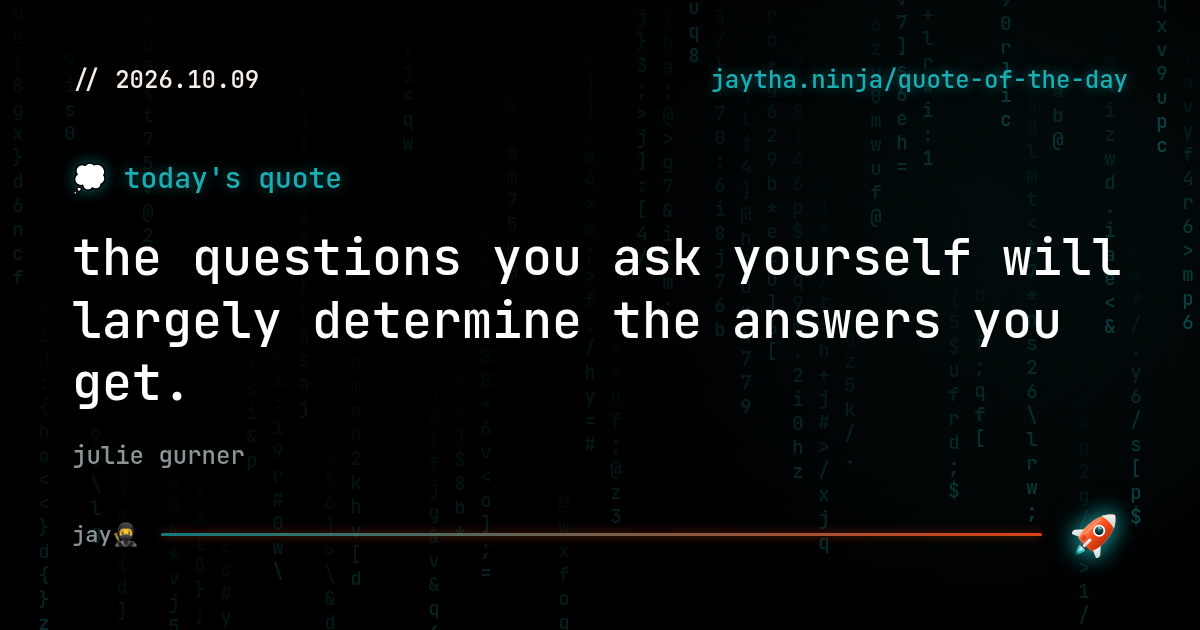
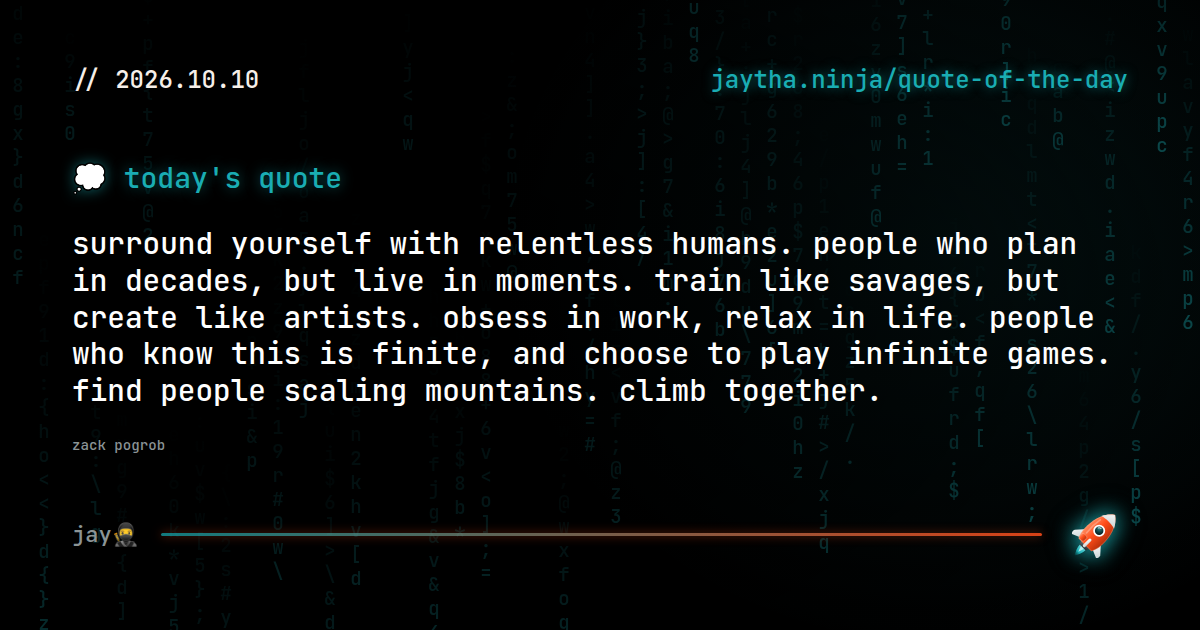
drop 2026-10-10: Zack Pogrob quote (no song/update/snap) (#112)

diff --git a/site/index.html b/site/index.html
@@ -446,7 +446,7 @@ a:focus-visible,button:focus-visible{outline:2px solid var(--c);outline-offset:2
 <meta property="og:url" content="https://jaytha.ninja/">
 <meta property="og:title" content="jay tha ninja">
 <meta property="og:description" content="a human building something human, with a little help from his 🤖 team">
-<meta property="og:image" content="https://jaytha.ninja/og/home.png?d=2026-10-08">
+<meta property="og:image" content="https://jaytha.ninja/og/home.png?d=2026-10-09">
 <meta property="og:image:width" content="1200">
 <meta property="og:image:height" content="630">
 <meta property="og:image:type" content="image/png">
@@ -455,7 +455,7 @@ a:focus-visible,button:focus-visible{outline:2px solid var(--c);outline-offset:2
 <meta name="twitter:site" content="@jaythaninja">
 <meta name="twitter:title" content="jay tha ninja">
 <meta name="twitter:description" content="a human building something human, with a little help from his 🤖 team">
-<meta name="twitter:image" content="https://jaytha.ninja/og/home.png?d=2026-10-08">
+<meta name="twitter:image" content="https://jaytha.ninja/og/home.png?d=2026-10-09">
 <meta name="twitter:image:alt" content="the intro on jaytha.ninja: the internet was a place to make genuine connections with other humans, somewhere along the way, we messed up, my team and i hope to run it back">
 <script type="application/ld+json">{"@context": "https://schema.org", "@type": "Person", "name": "jay", "url": "https://jaytha.ninja/", "sameAs": ["https://x.com/jaythaninja", "https://www.instagram.com/jaythaninja", "https://www.threads.com/jaythaninja", "https://github.com/jaythaninja", "https://www.strava.com/athletes/64153021", "https://www.linkedin.com/in/jaythaninja"]}</script>
 <link rel="stylesheet" href="/assets/rain.css?v=1.99"><script src="/assets/rain.js?v=1.99"></script>

diff --git a/site/song-of-the-day/index.html b/site/song-of-the-day/index.html
@@ -97,7 +97,7 @@ a:focus-visible{outline:2px solid var(--c);outline-offset:2px}
 <meta property="og:url" content="https://jaytha.ninja/song-of-the-day/">
 <meta property="og:title" content="song of the day · jay tha ninja">
 <meta property="og:description" content="a song a day, straight from jay's playlist">
-<meta property="og:image" content="https://jaytha.ninja/og/song.png?d=2026-10-08">
+<meta property="og:image" content="https://jaytha.ninja/og/song.png?d=2026-10-09">
 <meta property="og:image:width" content="1200">
 <meta property="og:image:height" content="630">
 <meta property="og:image:type" content="image/png">
@@ -106,7 +106,7 @@ a:focus-visible{outline:2px solid var(--c);outline-offset:2px}
 <meta name="twitter:site" content="@jaythaninja">
 <meta name="twitter:title" content="song of the day · jay tha ninja">
 <meta name="twitter:description" content="a song a day, straight from jay's playlist">
-<meta name="twitter:image" content="https://jaytha.ninja/og/song.png?d=2026-10-08">
+<meta name="twitter:image" content="https://jaytha.ninja/og/song.png?d=2026-10-09">
 <meta name="twitter:image:alt" content="today's song of the day on jaytha.ninja: the album art, a lyric and the artist">
 <link rel="stylesheet" href="/assets/rain.css?v=1.99"><script src="/assets/rain.js?v=1.99"></script>
 <link rel="stylesheet" href="/assets/foot.css?v=1.97"><script src="/assets/foot.js?v=1.99" defer></script>

diff --git a/site/quote-of-the-day/index.html b/site/quote-of-the-day/index.html
@@ -89,7 +89,7 @@ a:focus-visible{outline:2px solid var(--c);outline-offset:2px}
 <meta property="og:url" content="https://jaytha.ninja/quote-of-the-day/">
 <meta property="og:title" content="quote of the day · jay tha ninja">
 <meta property="og:description" content="a quote a day, a different person every day">
-<meta property="og:image" content="https://jaytha.ninja/og/quote.png?d=2026-10-08">
+<meta property="og:image" content="https://jaytha.ninja/og/quote.png?d=2026-10-09">
 <meta property="og:image:width" content="1200">
 <meta property="og:image:height" content="630">
 <meta property="og:image:type" content="image/png">
@@ -98,7 +98,7 @@ a:focus-visible{outline:2px solid var(--c);outline-offset:2px}
 <meta name="twitter:site" content="@jaythaninja">
 <meta name="twitter:title" content="quote of the day · jay tha ninja">
 <meta name="twitter:description" content="a quote a day, a different person every day">
-<meta name="twitter:image" content="https://jaytha.ninja/og/quote.png?d=2026-10-08">
+<meta name="twitter:image" content="https://jaytha.ninja/og/quote.png?d=2026-10-09">
 <meta name="twitter:image:alt" content="today's quote of the day on jaytha.ninja">
 <link rel="stylesheet" href="/assets/rain.css?v=1.99"><script src="/assets/rain.js?v=1.99"></script>
 <link rel="stylesheet" href="/assets/foot.css?v=1.97"><script src="/assets/foot.js?v=1.99" defer></script>

diff --git a/site/snap-of-the-day/index.html b/site/snap-of-the-day/index.html
@@ -94,7 +94,7 @@ a:focus-visible{outline:2px solid var(--c);outline-offset:2px}
 <meta property="og:url" content="https://jaytha.ninja/snap-of-the-day/">
 <meta property="og:title" content="snap of the day · jay tha ninja">
 <meta property="og:description" content="one photo a day, from jay">
-<meta property="og:image" content="https://jaytha.ninja/og/snap.png?d=2026-10-08">
+<meta property="og:image" content="https://jaytha.ninja/og/snap.png?d=2026-10-09">
 <meta property="og:image:width" content="1200">
 <meta property="og:image:height" content="630">
 <meta property="og:image:type" content="image/png">
@@ -103,7 +103,7 @@ a:focus-visible{outline:2px solid var(--c);outline-offset:2px}
 <meta name="twitter:site" content="@jaythaninja">
 <meta name="twitter:title" content="snap of the day · jay tha ninja">
 <meta name="twitter:description" content="one photo a day, from jay">
-<meta name="twitter:image" content="https://jaytha.ninja/og/snap.png?d=2026-10-08">
+<meta name="twitter:image" content="https://jaytha.ninja/og/snap.png?d=2026-10-09">
 <meta name="twitter:image:alt" content="today's snap of the day on jaytha.ninja: one photo from jay">
 <link rel="stylesheet" href="/assets/rain.css?v=1.99"><script src="/assets/rain.js?v=1.99"></script>
 <link rel="stylesheet" href="/assets/foot.css?v=1.97"><script src="/assets/foot.js?v=1.99" defer></script>
